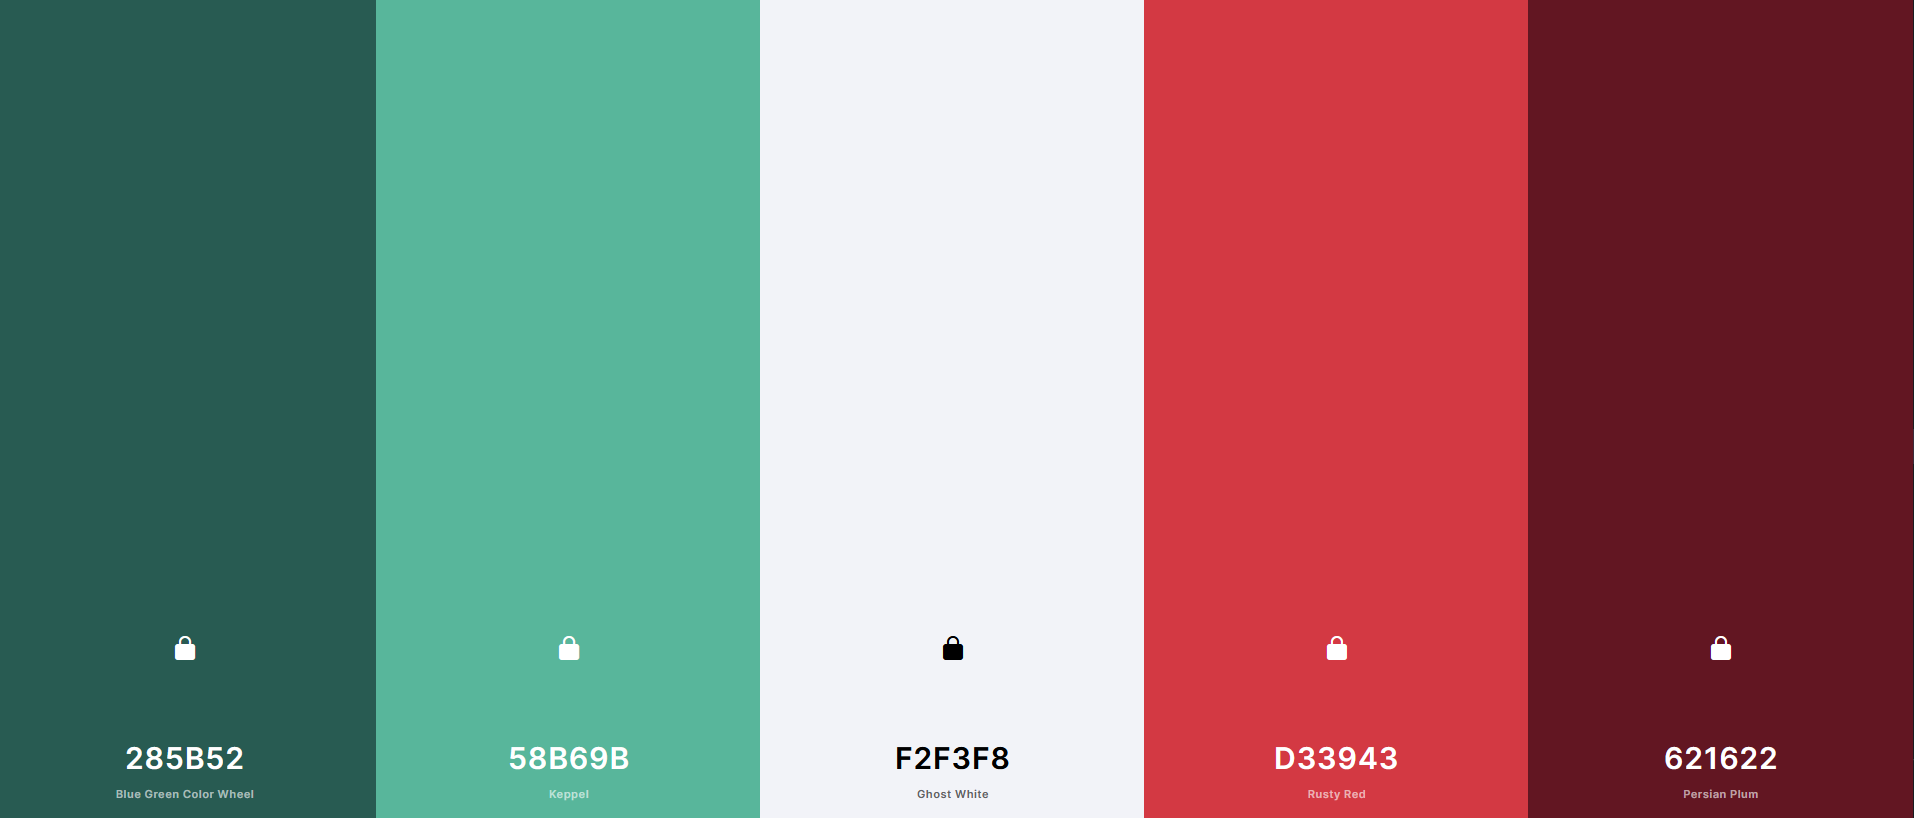
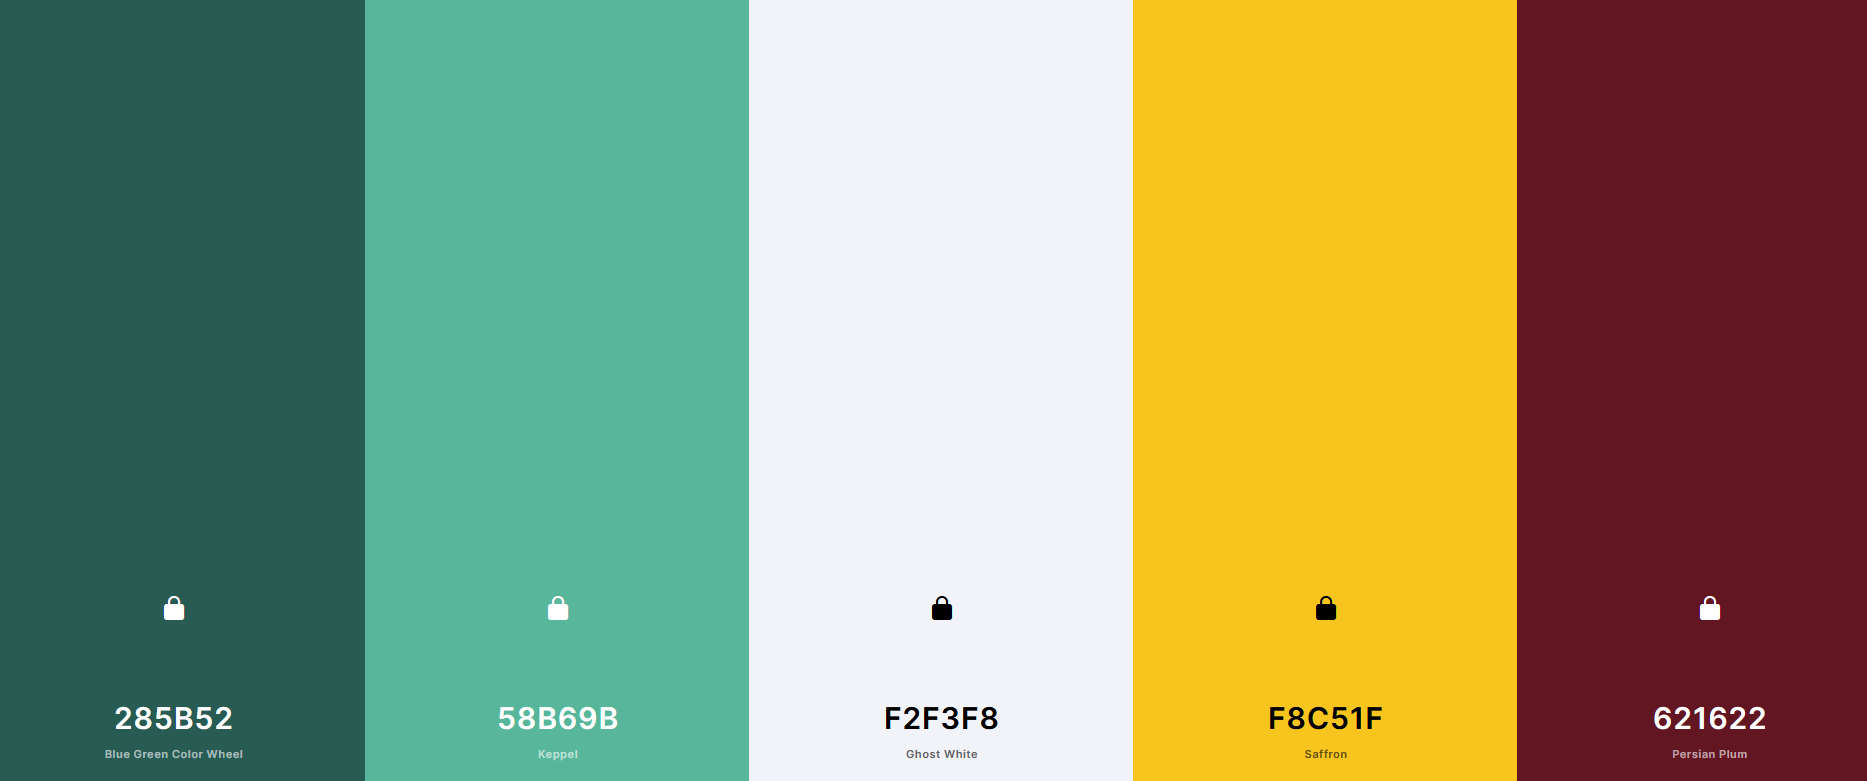
changed lorem ipsom code to advent calendar description, added opacity to description section, changed color scheme image

diff --git a/index.html b/index.html
@@ -47,14 +47,12 @@
   <main class="container-fluid" id="main-content">
     <!-- Main Content -->
     <section id="description-section" class="description_section">
-      <h1 id="description-text" class="text-center">This is the description</h1>
-      <p class="description_paragraph">Lorem ipsum dolor sit amet consectetur, adipisicing elit. Ducimus necessitatibus
-        mollitia incidunt nostrum
-        aliquid consectetur libero ex recusandae nulla, voluptatibus fugiat neque numquam repellat itaque ullam
-        explicabo, quaerat reiciendis harum.
-        Accusantium hic, quo, provident aliquam in molestiae culpa aperiam ipsa, odio sed saepe. Dolorum est odit
-        voluptas vitae, ipsum quasi dolores! Blanditiis et ipsam ex accusamus minima soluta consequuntur iste!
-        Placeat laborum corrupti, vel, ipsa error quas at ullam aspernatur, quam doloribus natus aut. </p>
+      <h1 id="description-text" class="text-center">Hacktastic Adventure</h1>
+      <p class="description_paragraph">
+        Welcome to the Code-vent Calendar, below is your code-vent doors for each day of December, 
+        behind each door there is a coding puzzle that needs be solved to receive a special reward upon successful completion of the puzzle.
+      
+      </p>
     </section>
     <section class="row calendar_section" id="calendar-section">
       <ul class="cards_holder">

diff --git a/assets/css/style.css b/assets/css/style.css
@@ -71,7 +71,7 @@ body {
   flex-direction: column;
   justify-content: center;
   align-items: center;
-
+  opacity: 0.9;
 }
 
 .description_paragraph {
